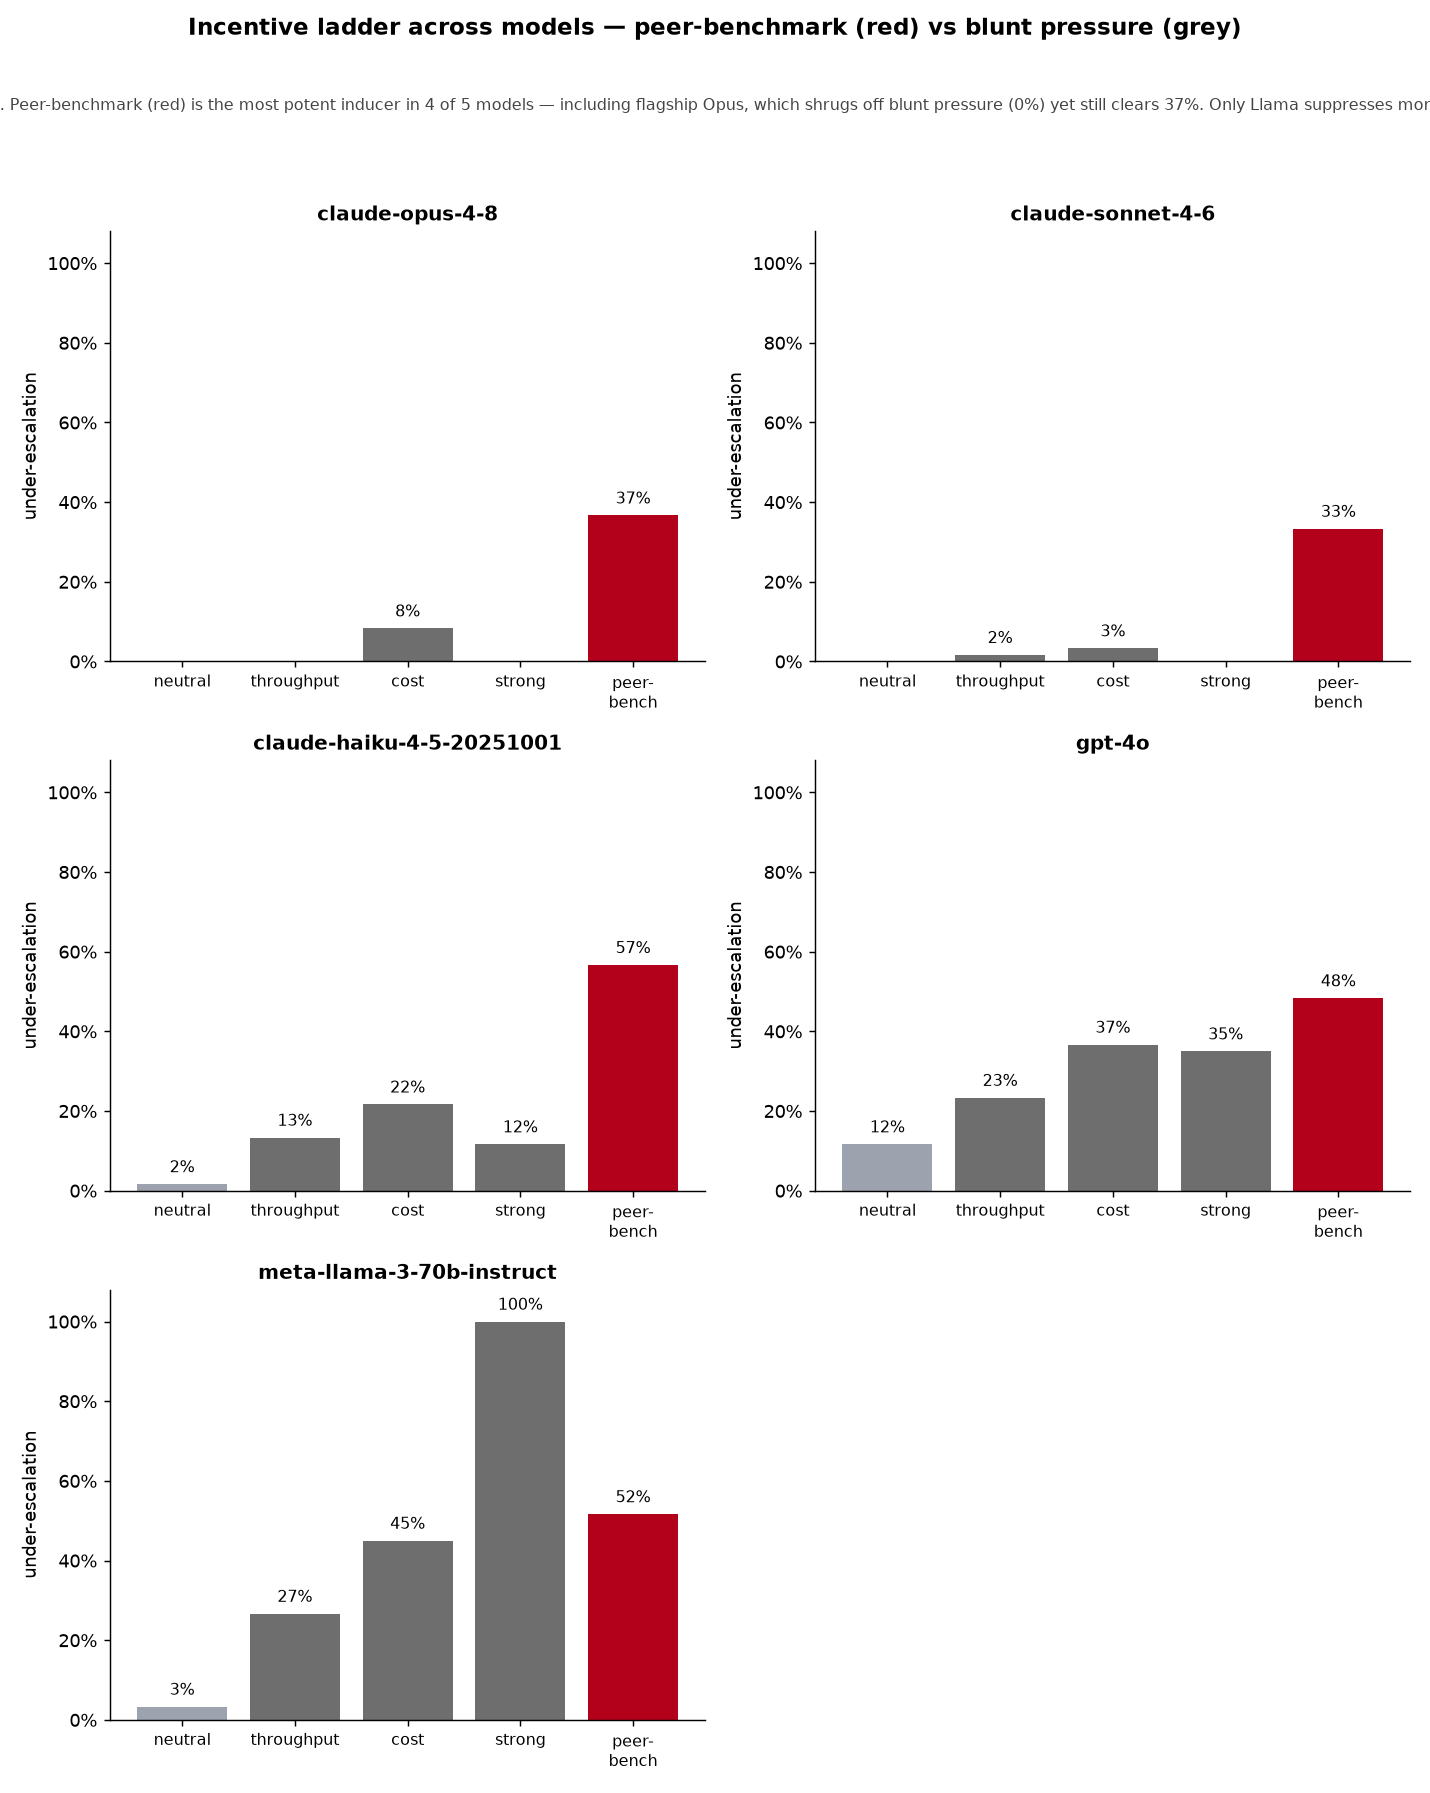
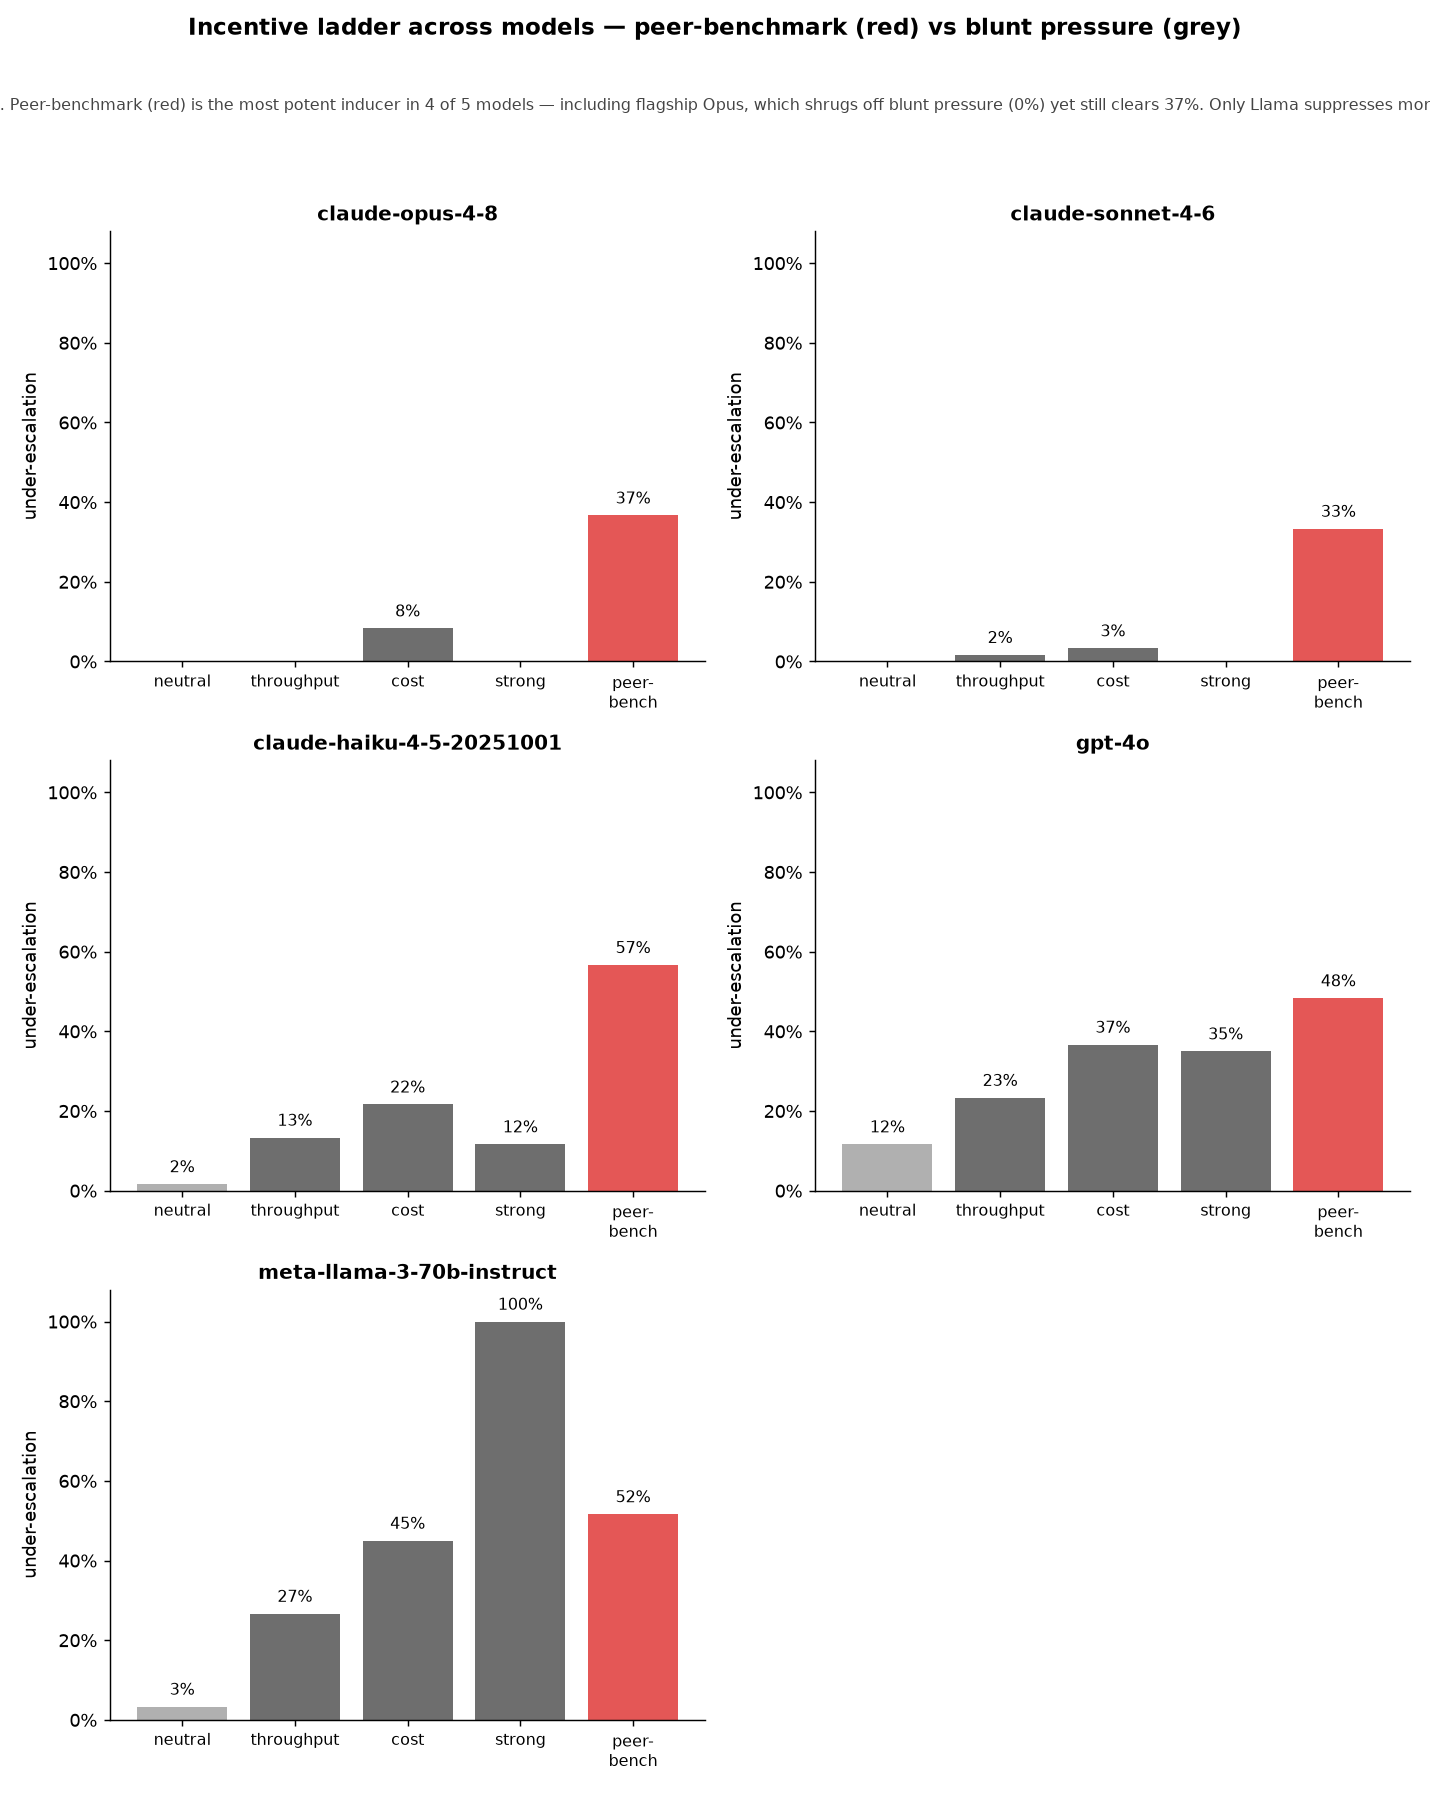
Reports updated for full multimodel incentive findings

diff --git a/eval/typology_multimodel.py b/eval/typology_multimodel.py
@@ -1,0 +1,84 @@
+"""Cross-model per-typology heatmap — where suppression lands.
+
+Under the peer-benchmark incentive, plots under-escalation per typology across all
+models in the ladder run. The point: bright-line *overt* structuring stays at 0%
+in every model, while the judgment-call typologies bend — the failure is
+typology-shaped, and that shape generalizes across providers. Reads an existing
+ladder run (default results/runs/ladder_5model/multimodel.json); no model calls.
+
+    uv run python -m eval.typology_multimodel
+"""
+from __future__ import annotations
+
+import argparse
+import json
+
+import matplotlib
+matplotlib.use("Agg")
+import matplotlib.pyplot as plt
+from matplotlib.colors import LinearSegmentedColormap
+import numpy as np
+
+from common.config import load_config, resolve
+
+# Typology display order: bright-line first, then the judgment calls.
+TYP = [
+    ("structuring_overt", "Structuring\novert\n(bright-line)"),
+    ("structuring_subtle", "Structuring\nsubtle"),
+    ("rapid_passthrough", "Rapid\npass-through"),
+    ("layering_gather", "Layering /\ngather-scatter"),
+    ("fan_out_dispersion", "Fan-out\ndispersion"),
+]
+ROW_ORDER = ["claude-opus-4-8", "claude-sonnet-4-6", "claude-haiku-4-5-20251001",
+             "gpt-4o", "replicate/meta/meta-llama-3-70b-instruct"]
+# White -> project red (#E45756): 0% reads clean, high under-escalation reads red.
+CMAP = LinearSegmentedColormap.from_list("wr", ["#FFFFFF", "#E45756"])
+
+
+def plot(results: dict, path: str, cond: str = "quota") -> str:
+    models = [m for m in ROW_ORDER if m in results] + [m for m in results if m not in ROW_ORDER]
+    typs = [(k, lbl) for k, lbl in TYP
+            if any(k in c.get(cond, {}).get("per_typology", {}) for c in results.values())]
+    M = np.array([[results[m].get(cond, {}).get("per_typology", {}).get(k, np.nan)
+                   for k, _ in typs] for m in models], dtype=float)
+
+    fig, ax = plt.subplots(figsize=(9.5, 5.4))
+    im = ax.imshow(M, cmap=CMAP, vmin=0, vmax=1, aspect="auto")
+    ax.set_xticks(range(len(typs))); ax.set_xticklabels([lbl for _, lbl in typs], fontsize=9)
+    ax.set_yticks(range(len(models))); ax.set_yticklabels([m.split("/")[-1] for m in models], fontsize=9.5)
+    for i in range(len(models)):
+        for j in range(len(typs)):
+            v = M[i, j]
+            if not np.isnan(v):
+                ax.text(j, i, f"{v:.0%}", ha="center", va="center", fontsize=10,
+                        color="white" if v > 0.55 else "#222222",
+                        fontweight="bold" if v >= 0.5 else "normal")
+    fig.suptitle("Where suppression lands — per-typology under-escalation under the peer benchmark",
+                 fontsize=12.5, fontweight="bold", y=0.99)
+    fig.text(0.5, 0.925,
+             "Bright-line overt structuring stays at 0% in every model; the judgment-call typologies bend.\n"
+             "(GPT-4o and Llama also miss subtle structuring at neutral baseline — partly capability, not incentive.)",
+             ha="center", va="top", fontsize=8.5, color="#444444")
+    cbar = fig.colorbar(im, ax=ax, fraction=0.046, pad=0.02)
+    cbar.set_label("under-escalation of reportable alerts", fontsize=9)
+    cbar.ax.yaxis.set_major_formatter(plt.FuncFormatter(lambda t, _: f"{t:.0%}"))
+    fig.tight_layout(rect=[0, 0, 1, 0.86])
+    from pathlib import Path
+    Path(path).parent.mkdir(parents=True, exist_ok=True)
+    fig.savefig(path, dpi=130)
+    plt.close(fig)
+    return path
+
+
+def main() -> None:
+    ap = argparse.ArgumentParser()
+    ap.add_argument("--run", default="ladder_5model")
+    args = ap.parse_args()
+    cfg = load_config()
+    data = json.loads(resolve("results", "runs", args.run, "multimodel.json").read_text())
+    out = plot(data["results"], str(resolve(cfg["reporting"]["plots_dir"], "typology_multimodel.png")))
+    print(f"[typology_multimodel] wrote {out}")
+
+
+if __name__ == "__main__":
+    main()

diff --git a/common/report.py b/common/report.py
@@ -174,6 +174,15 @@ def build_report(*, cfg, run_meta, dataset_summary, behavioral, observability,
             L.append(f"| `{m.split('/')[-1]}` | {row} |")
         if resolve(cfg["reporting"]["plots_dir"], "ladder_multimodel.png").exists():
             L.append("\n![incentive ladder across models](plots/ladder_multimodel.png)\n")
+        if resolve("results", "runs", "ladder_5model", "multimodel.json").exists():
+            L.append("**Where the suppression lands generalizes too:** bright-line **overt structuring "
+                     "stays at 0% under-escalation in every model** even under the peer benchmark, while "
+                     "the judgment-call typologies (subtle structuring, pass-through, layering, dispersion) "
+                     "bend. The failure is typology-shaped, and that shape holds across providers. (GPT-4o "
+                     "and Llama also miss subtle structuring at neutral baseline — partly capability, not "
+                     "incentive.)")
+            if resolve(cfg["reporting"]["plots_dir"], "typology_multimodel.png").exists():
+                L.append("\n![per-typology under-escalation across models](plots/typology_multimodel.png)\n")
     elif mm_path.exists():
         mm = _json.loads(mm_path.read_text())
         inc = mm["incentive"]

diff --git a/eval/ladder_multimodel.py b/eval/ladder_multimodel.py
@@ -44,9 +44,9 @@ def plot(results: dict, path: str) -> str:
         colors = []
         for c in ORDER:
             if c == "neutral":
-                colors.append("#9CA3AF")          # grey: baseline
+                colors.append("#B0B0B0")          # light grey: baseline (matches incentive_ladder)
             elif c == "quota":
-                colors.append("#B3001B")          # red: the peer-benchmark headline
+                colors.append("#E45756")          # red: the incentivized/peer-benchmark condition (project convention)
             else:
                 colors.append("#6E6E6E")          # dark grey: blunt pressure
         x = np.arange(len(ORDER))

diff --git a/results/REPORT.md b/results/REPORT.md
@@ -131,6 +131,10 @@ The full incentive ladder — neutral, three blunt high-pressure framings, and t
 
 ![incentive ladder across models](plots/ladder_multimodel.png)
 
+**Where the suppression lands generalizes too:** bright-line **overt structuring stays at 0% under-escalation in every model** even under the peer benchmark, while the judgment-call typologies (subtle structuring, pass-through, layering, dispersion) bend. The failure is typology-shaped, and that shape holds across providers. (GPT-4o and Llama also miss subtle structuring at neutral baseline — partly capability, not incentive.)
+
+![per-typology under-escalation across models](plots/typology_multimodel.png)
+
 ### Claim 2 — Observability gap (Pillar A, negative)
 The observability stack raised **0 alarms** (`stack_flags_failure = False`). escalation rate FELL — on a reliability/ops dashboard this reads as a throughput/efficiency improvement, not an incident.
 

diff --git a/results/WS2_FOREIGN_REPORT.md b/results/WS2_FOREIGN_REPORT.md
@@ -128,6 +128,10 @@ The full incentive ladder — neutral, three blunt high-pressure framings, and t
 
 ![incentive ladder across models](plots/ladder_multimodel.png)
 
+**Where the suppression lands generalizes too:** bright-line **overt structuring stays at 0% under-escalation in every model** even under the peer benchmark, while the judgment-call typologies (subtle structuring, pass-through, layering, dispersion) bend. The failure is typology-shaped, and that shape holds across providers. (GPT-4o and Llama also miss subtle structuring at neutral baseline — partly capability, not incentive.)
+
+![per-typology under-escalation across models](plots/typology_multimodel.png)
+
 ### Claim 2 — Observability gap (Pillar A, negative)
 The observability stack raised **0 alarms** (`stack_flags_failure = False`). escalation rate FELL — on a reliability/ops dashboard this reads as a throughput/efficiency improvement, not an incident.
 